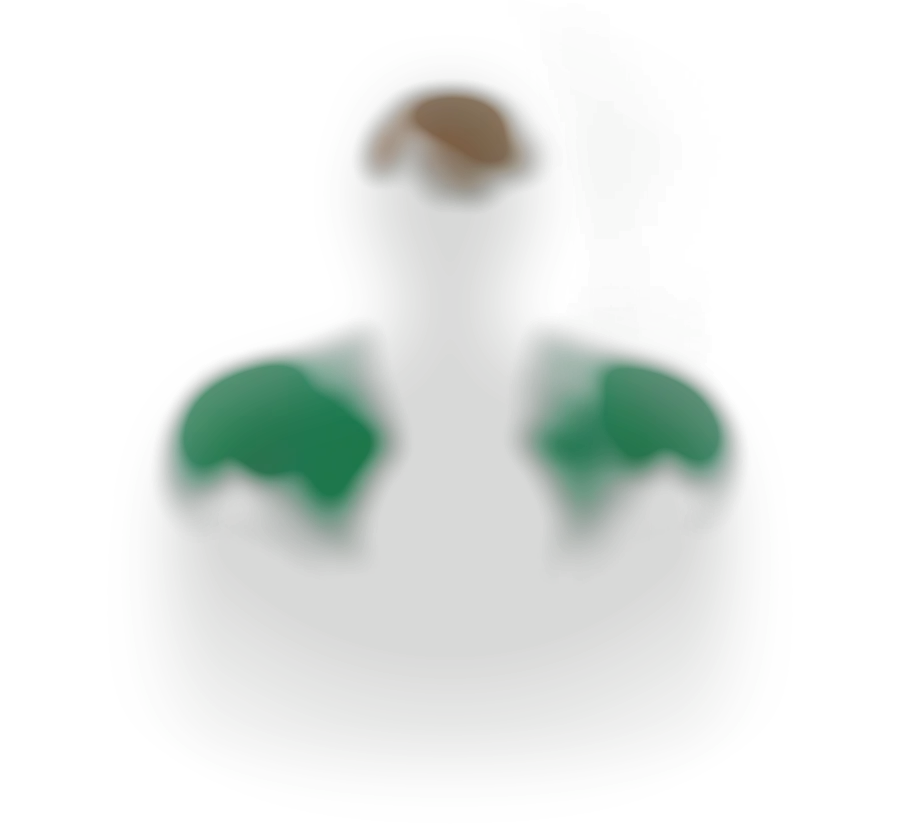
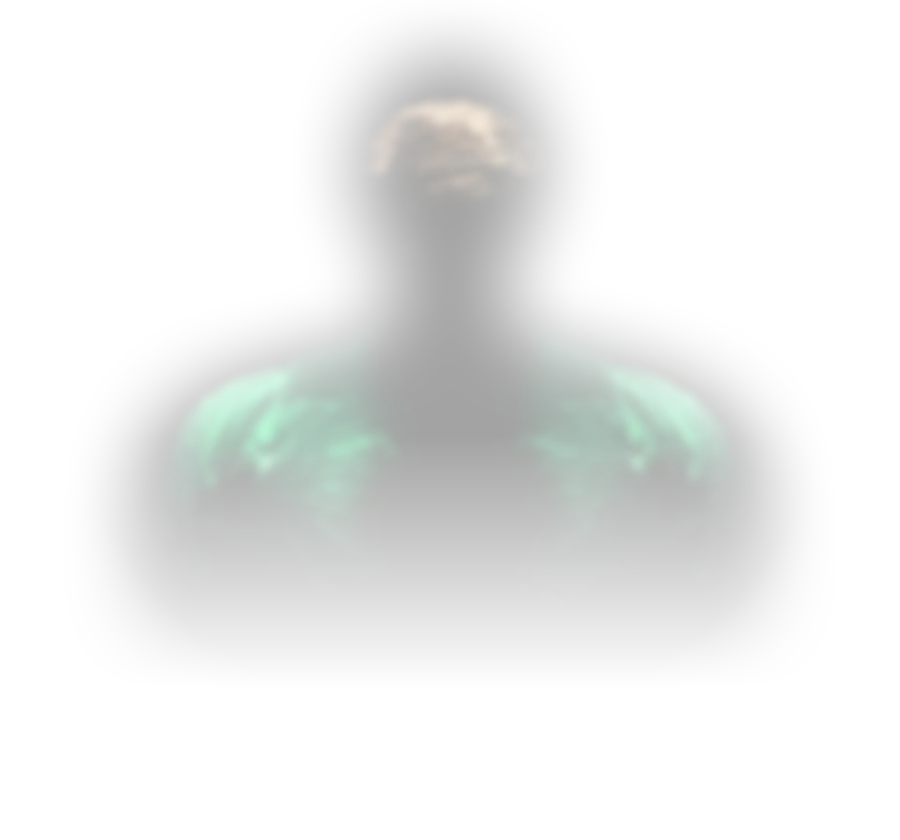
App and Windows: Lantern's figure on a light app as a faint photo
On paper and white the photo now shows faint, as if through the page, fading out in the shape of the figure and below the shoulders, as in Caelan's mock-up.

Changed region(s): [[0.1244, 0.031, 0.8711, 0.681], [0.3111, 0.7738, 0.6844, 0.8667]]

diff --git a/Desktop/src/lanternFigure.ts b/Desktop/src/lanternFigure.ts
@@ -14,8 +14,8 @@ import groundLightUrl from "./assets/lantern-ground-light.webp";
 //
 // Two layers for the question, so the light can swell with the voice: the
 // figure (`body`) and the green light on it (`light`). Behind the list, one
-// picture: as he is on a dark app, as a faint grey mist with the green on it
-// on a light one.
+// picture: as he is on a dark app, and on a light one faint, as if seen
+// through the page.
 
 /** The two layers, for the question: the figure, and the light on it. */
 export function lanternFigure(): { body: string; light: string } {

diff --git a/MPTree-App/src/lanternFigure.ts b/MPTree-App/src/lanternFigure.ts
@@ -14,8 +14,8 @@ import groundLightUrl from "./assets/lantern-ground-light.webp";
 //
 // Two layers for the question, so the light can swell with the voice: the
 // figure (`body`) and the green light on it (`light`). Behind the list, one
-// picture: as he is on a dark app, as a faint grey mist with the green on it
-// on a light one.
+// picture: as he is on a dark app, and on a light one faint, as if seen
+// through the page.
 
 /** The two layers, for the question: the figure, and the light on it. */
 export function lanternFigure(): { body: string; light: string } {

diff --git a/docs/play-store-listing.md b/docs/play-store-listing.md
@@ -11,7 +11,7 @@ Privacy policy URL to use in the console: **https://mp-tree.net/privacy**
 ## Release notes for 1.2.3 (max 500 characters each)
 
 The AAB is `MPTree-App/android/app/build/outputs/bundle/release/MPTree-1.2.3.aab`
-(versionCode 68, built 2026-10-14 with `npm run build:play`; test build 49 took 69, so a rebuilt bundle is 70). It is the first
+(versionCode 68, built 2026-10-14 with `npm run build:play`; test builds 49 and 50 took 69 and 70, so a rebuilt bundle is 71). It is the first
 Play bundle with R8 on; its mapping file is inside the bundle, so Play needs no
 separate upload. Nothing new to declare: no new permission (Lantern's voice is a
 sound file in the app, nothing is recorded), and the data safety answers for
